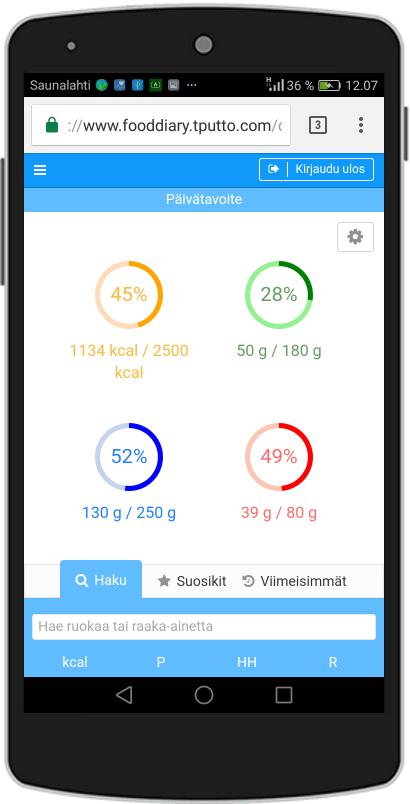
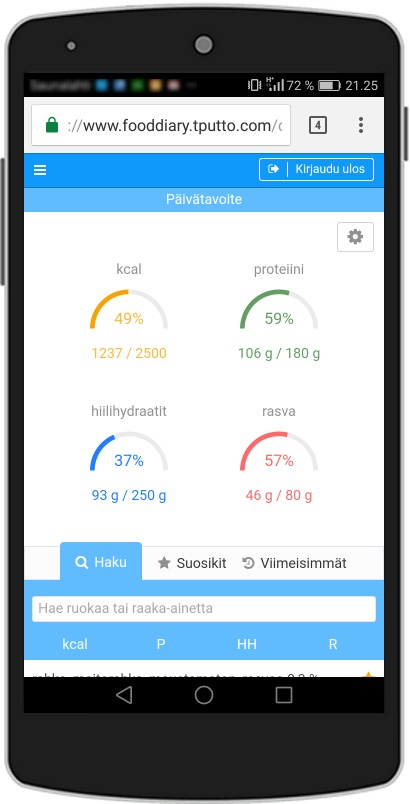
Cross-browser support.

diff --git a/index.html b/index.html
@@ -14,7 +14,7 @@
         <div id="food-diary-img-carousel" class="carousel slide" data-ride="carousel" data-interval="false" style="display: none;">
             <div class="carousel-inner" role="listbox">
                 <div class="item active">
-                    <img class="d-block img-fluid" src="./images/food-diary-front.png">
+                    <img class="d-block img-fluid" src="./images/food-diary-front-new.png">
                 </div>
                 <div class="item">
                     <img class="d-block img-fluid" src="./images/food-diary-front-top-mobile.png">
@@ -97,10 +97,16 @@
                     <img class="d-block img-fluid" src="./images/t-idea-landing.png">
                 </div>
                 <div class="item">
-                    <img class="d-block img-fluid" src="./images/t-idea-listing.png">
+                    <img class="d-block img-fluid" src="./images/t-idea-listing-view.png">
+                </div>
+                <div class="item">
+                    <img class="d-block img-fluid" src="./images/t-idea-newest-ideas-view.png">
                 </div>
                 <div class="item">
                     <img class="d-block img-fluid" src="./images/t-idea-add-idea.png">
+                </div>
+                <div class="item">
+                    <img class="d-block img-fluid" src="./images/t-idea-idea-view.png">
                 </div>
             </div>
 
@@ -164,10 +170,8 @@
             <div id="project-1">
                 <div class="row">
                     <div class="thumbnail-container col-xs-10 col-xs-offset-1">
-                        <div class="thumbnail-overlay" onclick="toggleOverlay('#food-diary-img-carousel')">
-                            <i class="icon-zoom-in"></i>
-                        </div>
-                        <img class="d-block img-fluid" src="./images/food-diary-front.png">
+                        <div class="thumbnail-overlay" onclick="toggleOverlay('#food-diary-img-carousel')"></div>
+                        <img class="d-block img-fluid" src="./images/food-diary-front-new.png">
                     </div>
                     <div class="project-details col-xs-10 col-xs-offset-1">
                         <h3>
@@ -179,13 +183,22 @@
                             </a>
                         </h3>
                         <p>
-                            Food diary application for tracking macronutrient and energy consumption.
-
-                            splits into two parts, client side app which requests information from the server with AJAX and a server side application written with node, which exposes REST API.
-                            Nutritional information provided by Fineli's open data initiative.
-
-                            provides a little cookie fallback to allow basic usage without logging in.
+                            Food diary application for tracking macronutrient and energy consumption. My latest solo project and the first decently sized venture with Node.js.
+                            This project consists of two separate applications: client-side React app and Node.js server app.
+                            Server app exposes REST API, which the client app consumes. <a onclick="showAdditionalInfo()" style="font-size: 14px;">Show more...</a>
                         </p>
+                        <div class="additional-info" style="display:none;">
+                            <p>
+                                splits into two parts, client side app which requests information from the server with AJAX and a server side application written with node, which exposes REST API.
+                                Nutritional information provided by Fineli's open data initiative.
+
+                                provides a little cookie fallback to allow basic usage without logging in.
+                            </p>
+                        </div>
+
+
+
+
                         <div class="project-tags">
                             <span>JavaScript</span>
                             <span>React</span>
@@ -207,9 +220,7 @@
             <div id="project-2">
                 <div class="row">
                     <div class="thumbnail-container col-xs-10 col-xs-offset-1">
-                        <div class="thumbnail-overlay" onclick="toggleOverlay('#gist-management-app-img-carousel')">
-                            <i class="icon-zoom-in"></i>
-                        </div>
+                        <div class="thumbnail-overlay" onclick="toggleOverlay('#gist-management-app-img-carousel')"></div>
                         <img class="d-block img-fluid" src="./images/gist-management-app-discover.png">
                     </div>
                     <div class="project-details col-xs-10 col-xs-offset-1">
@@ -245,8 +256,39 @@
                 </div>
             </div>
 
-
             <div id="project-3">
+                <div class="row">
+                    <div class="thumbnail-container col-xs-10 col-xs-offset-1">
+                        <div class="thumbnail-overlay" onclick="toggleOverlay('#t-idea-img-carousel')"></div>
+                        <img class="d-block img-fluid" src="./images/t-idea-landing.png">
+                    </div>
+                    <div class="project-details col-xs-10 col-xs-offset-1">
+                        <h3 style="color: #616060;">T-idea
+                            <a href="https://github.com/TatuPutto/PHP-works">
+                                <button class="to-github-repo">
+                                    <i class="fa fa-github"></i> GitHub Repo
+                                </button>
+                            </a>
+                        </h3>
+                        <p>
+                            Idea sharing platform. Old project from the second year of my studies and this
+                            idea sharing platform was our assignment for the course. Worked as part of 6 man team,
+                            filling in where more work force was needed. Mostly focused on back-end and database layer.
+                        </p>
+                        <div class="project-tags">
+                            <span>JavaScript</span>
+                            <span>jQuery</span>
+                            <span>HTML5</span>
+                            <span>CSS3</span>
+                            <span>PHP</span>
+                            <span>MySQL</span>
+                        </div>
+                    </div>
+                </div>
+            </div>
+
+
+            <div id="project-4">
                 <div class="row">
                     <div class="embed-container col-xs-10 col-xs-offset-1">
                         <!--<p data-height="100%" data-theme-id="0" data-slug-hash="NjWEOM" data-default-tab="result" data-user="TatuPutto" data-embed-version="2" data-pen-title="Game-of-life" class="codepen"></p>
@@ -269,40 +311,6 @@
                             <span>React</span>
                             <span>HTML5</span>
                             <span>CSS3</span>
-                        </div>
-                    </div>
-                </div>
-            </div>
-
-
-            <div id="project-4">
-                <div class="row">
-                    <div class="thumbnail-container col-xs-10 col-xs-offset-1">
-                        <div class="thumbnail-overlay" onclick="toggleOverlay('#t-idea-img-carousel')">
-                            <i class="icon-zoom-in"></i>
-                        </div>
-                        <img class="d-block img-fluid" src="./images/t-idea-landing.png">
-                    </div>
-                    <div class="project-details col-xs-10 col-xs-offset-1">
-                        <h3 style="color: #616060;">T-idea
-                            <a href="https://github.com/TatuPutto/PHP-works">
-                                <button class="to-github-repo">
-                                    <i class="fa fa-github"></i> GitHub Repo
-                                </button>
-                            </a>
-                        </h3>
-                        <p>
-                            Idea / concept sharing platform. Old project from the second year of my studies and this
-                            idea sharing platform was our assignment for the course. Worked as part of 6 man team,
-                            filling in where more work force was needed. Mostly focused on back-end and database layer.
-                        </p>
-                        <div class="project-tags">
-                            <span>JavaScript</span>
-                            <span>jQuery</span>
-                            <span>HTML5</span>
-                            <span>CSS3</span>
-                            <span>PHP</span>
-                            <span>MySQL</span>
                         </div>
                     </div>
                 </div>

diff --git a/styles.css b/styles.css
@@ -1,19 +1,10 @@
-html {
-    /*height: 100%;*/
-    /*background: linear-gradient(#0d1315, #272727);*/
-}
-
 body {
     background: none;
-    /*color: #616060;*/
     margin-top: 50px;
     min-width: 650px;
-    /*background-image: url('./images/background-bright-squares-white.png');*/
 }
 
 section {
-    /*margin-top: 20px;*/
-    /*padding-bottom: 40px;*/
     border-bottom: 2px solid white;
     padding: 40px 0;
 }
@@ -53,8 +44,6 @@ p {
 
 img {
     margin: 0 auto;
-    image-rendering: -moz-crisp-edges;
-    image-rendering: -o-crisp-edges;
     image-rendering: -webkit-optimize-contrast;
 }
 
@@ -92,6 +81,7 @@ img {
 .nav-menu ul {
     list-style-type: none;
     -webkit-padding-start: 0;
+    -moz-padding-start: 0;
 }
 
 .nav-menu li {
@@ -169,18 +159,10 @@ img {
 
 .about-text {
     margin-top: 20px;
-    /*line-height: 130%;
-    font-size: 16px;
-    text-align: justify;*/
 }
 
 .project {
-    /*margin-top: 30px;*/
     height: 100%;
-}
-
-.thumbnail-row {
-    /*border-bottom: 1px solid #a7a7a7;*/
 }
 
 .thumbnail-container {
@@ -200,22 +182,22 @@ img {
     border-radius: 4px;
 }
 
-.carousel-inner {
-    /*border: 5px solid #e4e4e4;
-    border-radius: 5px;*/
-    /*height: 100%;*/
-}
-
 .thumbnail-overlay {
-    height: calc(100% - 10px);
-    width: calc(100% - 40px);
+    height: 99%;
+    width: 96%;
+    height: calc(100% - 9px);
+    width: calc(100% - 38px);
     background-color: rgba(0, 0, 0, 0.5);
     position: absolute;
     top: 5px;
-    left: 20px;
+    left: 19px;
     z-index: 1;
     opacity: 0;
     transition: opacity 0.2s ease-out;
+    -ms-transition: opacity 0.2s ease-out;
+    -webkit-transition: opacity 0.2s ease-out;
+    -moz-transition: opacity 0.2s ease-out;
+    -o-transition: opacity 0.2s ease-out;
 }
 
 .thumbnail-overlay:hover {
@@ -226,11 +208,15 @@ img {
     display: block;
     position: relative;
     top: 50%;
-    transform: translateY(-50%);
     content: "\f00e";
     font-family: FontAwesome;
     font-size: 50px;
     color: white;
+    transform: translateY(-50%);
+    -ms-transform: translateY(-50%);
+    -webkit-transform: translateY(-50%);
+    -moz-transform: translateY(-50%);
+    -o-transform: translateY(-50%);
 }
 
 .to-github-repo {
@@ -262,35 +248,39 @@ img {
     position: absolute;
     top: 50%;
     transform: translateY(-50%);
-    width: calc(100% + 140px);
-    margin-left: -70px;
+    -ms-transform: translateY(-50%);
+    -webkit-transform: translateY(-50%);
+    -moz-transform: translateY(-50%);
+    -o-transform: translateY(-50%);
+    /*width: 114%;*/
+    /*width: calc(100% + 140px);*/
+    width: 112%;
     height: 100%;
+    margin-left: -6%;
+}
+
+.carousel-controls a {
+    color: #fff;
+    text-align: center;
+    width: 5%;
+    height: 100%;
+    transition: all 0.2s ease-out;
+    -ms-transition: all 0.2s ease-out;
+    -webkit-transition: all 0.2s ease-out;
+    -moz-transition: all 0.2s ease-out;
+    -o-transition: all 0.2s ease-out;
 }
 
 .carousel-controls a:first-child {
     float: left;
-    /*color: #616060;*/
-    color: #fff;
-    padding: 25px;
-    /*border: 5px solid transparent;
-    border-radius: 5px;*/
     border-top-left-radius: 5px;
     border-bottom-left-radius: 5px;
-    height: calc(100% + 3px);
-    transition: all 0.2s ease-out;
 }
 
 .carousel-controls a:last-child {
     float: right;
-    /*color: #616060;*/
-    color: #fff;
-    padding: 25px;
-    /*border: 5px solid transparent;
-    border-radius: 5px;*/
     border-top-right-radius: 5px;
     border-bottom-right-radius: 5px;
-    height: calc(100% + 3px);
-    transition: all 0.2s ease-out;
 }
 
 .carousel-controls a:hover {
@@ -504,14 +494,27 @@ div[id^="project-"] .row {
     background: linear-gradient(#1f1f1f, #252525);
     z-index: 2;
     transition: transform 0.4s ease-out;
+    transform: translateY(-50%);
+    -ms-transform: translateY(-50%);
+    -webkit-transform: translateY(-50%);
+    -moz-transform: translateY(-50%);
+    -o-transform: translateY(-50%);
 }
 
 .overlay.open {
     transform: translateY(0%);
+    -ms-transform: translateY(0%);
+    -webkit-transform: translateY(0%);
+    -moz-transform: translateY(0%);
+    -o-transform: translateY(0%);
 }
 
 .overlay.closed {
     transform: translateY(-100%);
+    -ms-transform: translateY(-100%);
+    -webkit-transform: translateY(-100%);
+    -moz-transform: translateY(-100%);
+    -o-transform: translateY(-100%);
 }
 
 .toggle-overlay {
